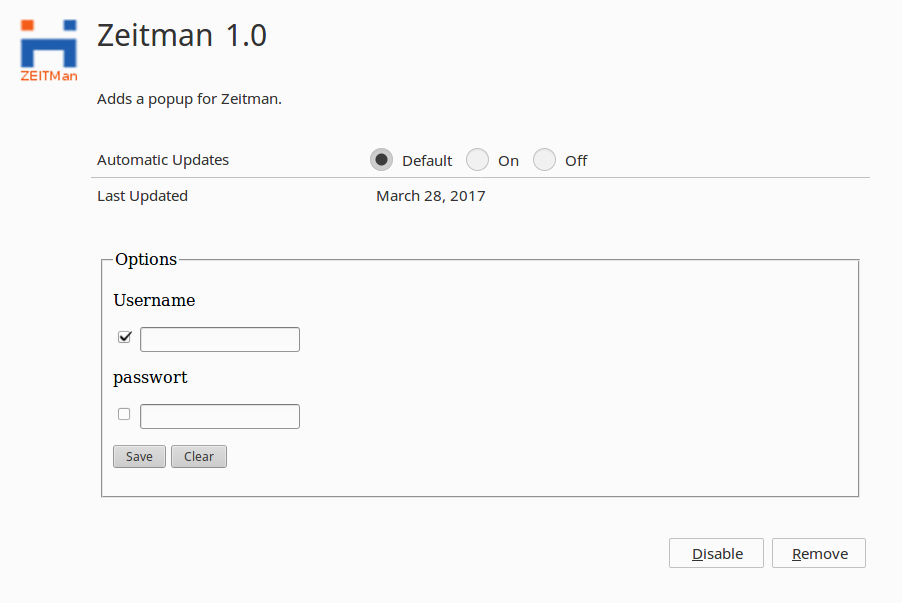
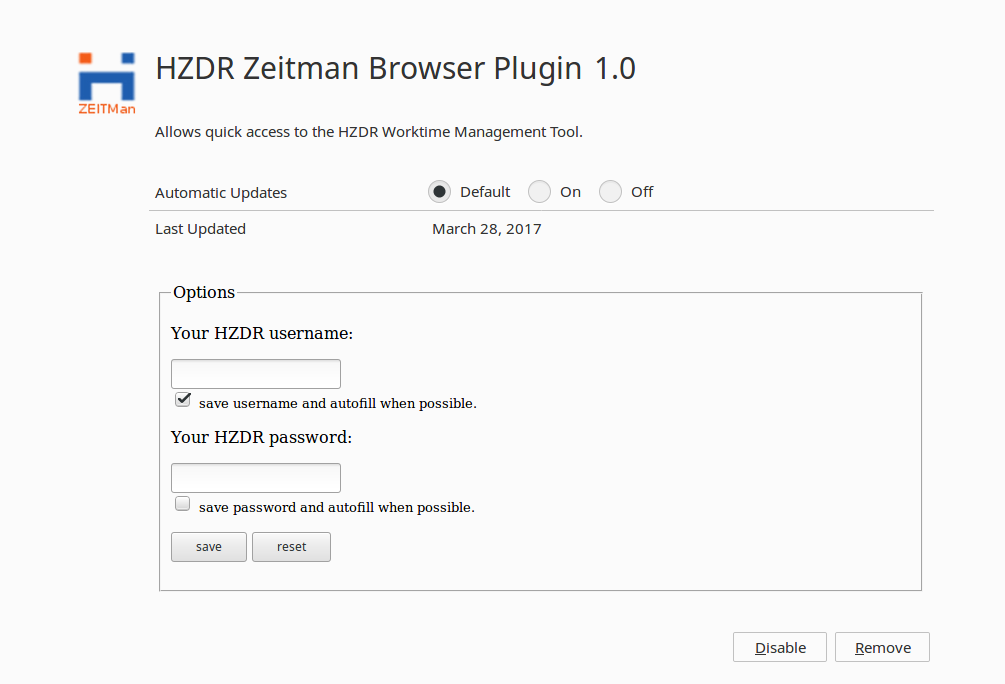
added i18n to options tab

diff --git a/options.html b/options.html
@@ -4,23 +4,28 @@
 
 <head>
     <meta charset="utf-8">
+    <script type="text/javascript" src="/lib/i18n.js"></script>
 </head>
 
 <body>
     <form>
         <fieldset>
             <legend>Options</legend>
-            <p>Username</p> <input type="checkbox" id="save_username" title="check if username should be saved" checked="checked">
-            <input type="text" id="username">
-            <p>passwort</p> <input type="checkbox" id="save_passwort" title="check if password should be saved">
-            <input type="password" id="passwort">
+            <p class="i18n_options_username_text"></p>
+            <input type="text" id="username"><br/>
+            <input type="checkbox" id="save_username" checked="checked">
+            <small class="i18n_options_username_text_desc" ></small>
+            <p class="i18n_options_password_text"></p>
+            <input type="password" id="passwort"><br/>
+            <input type="checkbox" id="save_passwort">
+            <small class="i18n_options_password_text_desc" ></small>
             <div style="display:none;">
             <p>session_id</p>
             <input type="text" id="session_id">
             </div>
             <p>
-            <button type="submit">Save</button>
-            <button type="reset">Clear</button>
+            <button type="submit" class="i18n_options_button_save"></button>
+            <button type="reset" class="i18n_options_button_reset"></button>
           </p>
         </fieldset>
     </form>
